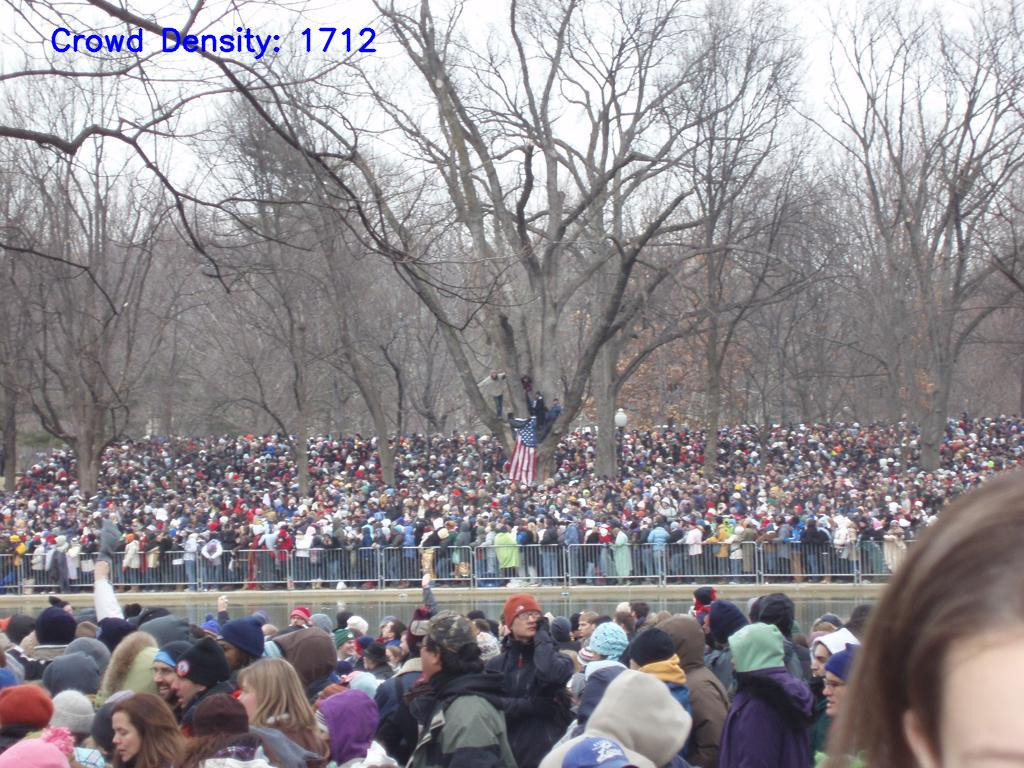
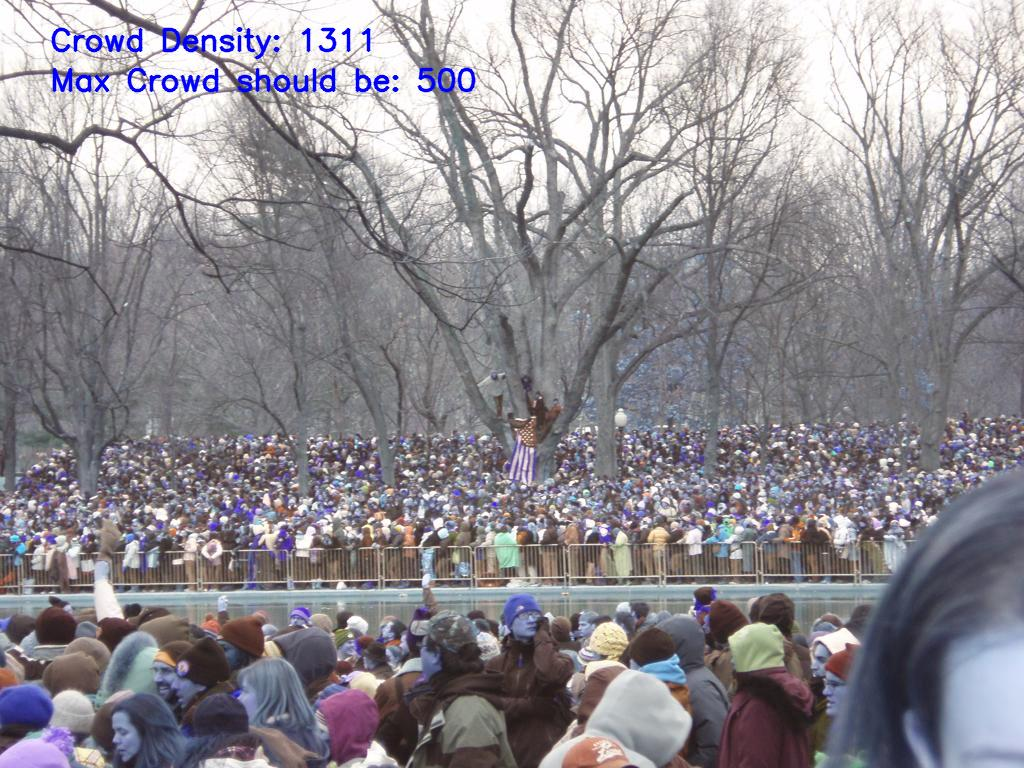
additional functionality added

diff --git a/src/app.py b/src/app.py
@@ -5,6 +5,7 @@ import argparse
 import tkinter.font as font
 import os
 import matplotlib.pyplot as plt
+import cv2
 
 from src.utils.all_utils import read_yaml, log
 from src.prediction import prediction
@@ -36,12 +37,12 @@ class module:
         uploadImg = tk.Button(self.window, text='upload image', command=self.collectImage, fg="white", bg="#363e75", width=15,
                             height=2,
                             activebackground="#118ce1", font=('times', 15, ' bold '), cursor='hand2')
-        uploadImg.place(x=80, y=350)
+        uploadImg.place(x=80, y=120)
 
         uploadVideo = tk.Button(self.window, text='upload video', command=self.collectVideo, fg="white", bg="#363e75", width=15,
                             height=2,
                             activebackground="#118ce1", font=('times', 15, ' bold '), cursor='hand2')
-        uploadVideo.place(x=600, y=350)
+        uploadVideo.place(x=600, y=120)
 
         lbl3 = tk.Label(self.window, text="Notification : ", width=15, fg="white", bg="#363e75", height=2,
                         font=('times', 15))
@@ -54,39 +55,72 @@ class module:
                            font=('times', 15))
         self.message.place(x=220, y=260)
 
+        maxCrowd = tk.Label(self.window, text='Max Crowd Threshold', width=20, fg="white", bg="#363e75", height=2, font=('times', 15))
+        maxCrowd.place(x=80, y=350)
+        self.maxCrowd = tk.Entry(self.window, width=20, bg="white", fg="black", font=('times', 15, ' bold '))
+        self.maxCrowd.place(x=325, y=359)
+
+        predictImg = tk.Button(self.window, text="Predict", command=self.makePrediction, fg="white", bg="#363e75",
+                             width=15,
+                             height=2,
+                             activebackground="#118ce1", font=('times', 15, ' bold '), cursor='hand2')
+        predictImg.place(x=600, y=350)
+
+
         quitWindow = tk.Button(self.window, text="Quit", command=self.close_window, fg="white", bg="#363e75", width=10, height=2,
                                activebackground="#118ce1", font=('times', 15, 'bold'), cursor='hand2')
         quitWindow.place(x=650, y=510)
+
+        self.image_path = None
+        self.video_path = None
 
         self.window.mainloop()
 
     def collectImage(self):
         config_path = os.path.join('src','config','config.yaml')
         content = read_yaml(config_path)
-
-        data_path = content['base']['input_data_path']
         log_dir = content['base']['log_dir']
         log_filename = content['base']['log_file']
         logfile = os.path.join('src', log_dir, log_filename)
-        downsample = content['base']['down_sample']
-
 
         file_types = (('jpg files', '*.jpg'), ('jpeg files', '*.jpeg'), ('png files', '*.png'))
         file_open = filedialog.askopenfilename(initialdir='/', title='Select an image file', 
                                                 filetypes=file_types)
-        notification = "Processing....."
-        self.message.configure(text=notification)
-
-        image = plt.imread(file_open)
-        plt.imsave(os.path.join(data_path, 'input.jpg'), image)
-        app = prediction(config_path, downsample)
-        img, s = app.predict_image(image)
-        plt.imsave(os.path.join(data_path, 'output.jpg'), img)
+        self.image_path = file_open
+        if self.image_path:
+            notification = "Image uploaded"
+            self.message.configure(text=notification)
+            log('input image uploaded', logfile)
+        else:
+            notification = "upload an image."
+            self.message.configure(text=notification)
         
-        notification = "Estimated Crowd Density: {}".format(s)
-        self.message.configure(text=notification)
 
+        
     def collectVideo(self):
+        config_path = os.path.join('src','config','config.yaml')
+        content = read_yaml(config_path)
+
+        log_dir = content['base']['log_dir']
+        log_filename = content['base']['log_file']
+        logfile = os.path.join('src', log_dir, log_filename)
+
+        file_types = (('mp4 files', '*.mp4'),)
+        file_open = filedialog.askopenfilename(initialdir='/', title='Select an video file', 
+                                                filetypes=file_types)
+        self.video_path = file_open
+        if self.video_path:
+            self.message.configure(text="Video uploaded")
+            log('Video uploaded', logfile)
+        else:
+            self.message.configure(text="upload a video.")
+        
+
+    
+    def makePrediction(self):
+        self.message.configure(text='processing...')
+        maxCrowdVal = self.maxCrowd.get()
+        
         config_path = os.path.join('src','config','config.yaml')
         content = read_yaml(config_path)
 
@@ -96,17 +130,39 @@ class module:
         logfile = os.path.join('src', log_dir, log_filename)
         downsample = content['base']['down_sample']
 
-        file_types = (('mp4 files', '*.mp4'),)
-        file_open = filedialog.askopenfilename(initialdir='/', title='Select an video file', 
-                                                filetypes=file_types)
-        self.message.configure(text="Processing....")
-        
-        video_path = file_open
-        app = prediction(config_path, downsample)
-        s = app.predict_video(video_path)
-        
-        notification = "Estimated Crowd Density: {}".format(s)
-        self.message.configure(text=notification)
+        if (not self.image_path) and (not self.video_path):
+            self.message.configure(text= 'Please upload an image or video')
+
+        elif self.image_path:
+            image = plt.imread(self.image_path)
+            image = cv2.cvtColor(image, cv2.COLOR_RGB2BGR)
+            plt.imsave(os.path.join(data_path, 'input.jpg'), image)
+            app = prediction(config_path, downsample)
+            try:
+                maxCrowdVal = int(maxCrowdVal)
+                img, s = app.predict_image(image, max_crowd=maxCrowdVal)
+                plt.imsave(os.path.join(data_path, 'output.jpg'), img)
+                notification = "Estimated Crowd Density: {}".format(s)
+                self.message.configure(text=notification)
+                self.image_path = None
+            except Exception as e:
+                print(e)
+                self.message.configure(text='Please enter a valid integer value..')
+
+        elif self.video_path:
+            app = prediction(config_path, downsample)
+            try:
+                maxCrowdVal = int(maxCrowdVal)
+                s = app.predict_video(self.video_path, max_crowd=maxCrowdVal)
+                notification = "Estimated Crowd Density: {}".format(s)
+                self.message.configure(text=notification)
+                self.video_path = None
+            except Exception as e:
+                print(e)
+                self.message.configure(text='Please enter a valid integer value..')
+            
+
+
 
  
     def close_window(self):

diff --git a/src/prediction.py b/src/prediction.py
@@ -12,6 +12,7 @@ from tqdm import tqdm
 from matplotlib import cm as CM
 from src.utils.all_utils import read_yaml, log
 from src.model import MCNN
+import pyttsx3 as p
 
 class prediction:
     def __init__(self, config_path, downsample):
@@ -38,8 +39,15 @@ class prediction:
             checkpoint = torch.load(checkpoint_path, map_location=torch.device('cpu'))
         self.model.load_state_dict(checkpoint['model_state_dict'])
 
-        
-        
+        self.engine = p.init()
+        rate = self.engine.getProperty('rate')
+        self.engine.setProperty('rate',180)
+        voices = self.engine.getProperty('voices')
+        self.engine.setProperty('voice',voices[1].id)
+
+        self.count = 0
+        self.frame_check = 2
+            
     def get_custom_photo(self, image):
         if len(image.shape)==2: # expand grayscale image to three channel.
             image=image[:,:,np.newaxis]
@@ -56,7 +64,7 @@ class prediction:
         plt.imsave(path, output)
         log('Density map of your input has been saved in {}'.format(path), self.logfile)
 
-    def predict_image(self, img, from_video=False):
+    def predict_image(self, img, max_crowd=None, from_video=False):
         img_tensor = self.get_custom_photo(img)
         img_tensor = img_tensor.expand(1, img_tensor.shape[0],img_tensor.shape[1],img_tensor.shape[2])
         if self.cuda:
@@ -70,23 +78,34 @@ class prediction:
         print(s)
         text = "Crowd Density: {}".format(s)
         cv2.putText(img, text, (50,50), cv2.FONT_HERSHEY_SIMPLEX, 1, (0,0,255), 2, cv2.LINE_AA)
+        if max_crowd:
+            text = "Max Crowd should be: {}".format(max_crowd)
+            cv2.putText(img, text, (50,90), cv2.FONT_HERSHEY_SIMPLEX, 1, (0,0,255), 2, cv2.LINE_AA)
         if not from_video:
             cv2.imshow('feed', img)
             cv2.waitKey(0)
         return img, s 
 
-    def predict_video(self, video_path):
+    def predict_video(self, video_path, max_crowd=None):
         cap = cv2.VideoCapture(video_path)
         while cap.isOpened():
             ret, frame = cap.read()
             
             if ret == True:
                 if frame.shape[0] >= 1024:
-                    frame = cv2.resize(frame,(1024,1024))
-                image, s = self.predict_image(frame, from_video=True)
+                    frame = cv2.resize(frame, (1024,1024))
+                #frame = cv2.resize(frame, (700,700))
+                image, s = self.predict_image(frame, max_crowd=max_crowd, from_video=True)
                 
                 cv2.imshow('feed', image)
-                if cv2.waitKey(25) & 0xFF==ord('q'):
+                if s > int(max_crowd):
+                    self.count += 1
+                    if self.count > self.frame_check:
+                        self.engine.say("Crowd density is very high! Please clear the crowd.")
+                        self.engine.runAndWait()
+                else:
+                    self.count = 0
+                if cv2.waitKey(1) & 0xFF==ord('q'):
                     break
             else:
                 break

diff --git a/src/density_map.py b/src/density_map.py
@@ -8,7 +8,7 @@ class density:
     def __init__(self, config_path):
         content = read_yaml(config_path)
         self.leafsize = content['base']['kdtree_leafsize']
-        self.nearest_points = content['base']['number_of_nearset_points']
+        self.nearest_points = content['base']['number_of_nearset_points']  # 4
         log_dir = content['base']['log_dir']
         log_filename = content['base']['log_file']
         self.logfile = os.path.join('src', log_dir, log_filename)

diff --git a/setup.py b/setup.py
@@ -6,5 +6,6 @@ setup(
     author='Arnab Mitra',
     description='Face Monitering System',
     packages=['src'],
-    install_requires=['torch','torchvision','torchaudio','opencv-python','matplotlib','PyYAML','numpy','scipy']
+    install_requires=['torch','torchvision','torchaudio','opencv-python','matplotlib','PyYAML','numpy','scipy','pyttsx3']
+    
 )

diff --git a/Readme.md b/Readme.md
@@ -1,0 +1,39 @@
+# Crowd-Density-Estimation
+
+A desktop based application which can detect density of crowd in any public place. 
+## Algorithm used
+
+A Multicolumn Convolutional Neural Network (MCNN) is used for this application. It has three different columns, each of them has different sizes of kernel. It helps model to detect 
+different sizes of head in crowd. 
+
+## Framework
+
+PyTorch
+## Installation
+
+* conda create --prefix ./env python==3.8 -y
+* conda activate <<path_to_env_directory>>/env
+* pip install -r requirements.txt
+
+## Project Demo
+
+### View my project
+
+[Demo](https://www.linkedin.com/posts/arnab-mitra-882756227_connections-computervision-datascience-activity-6959506473651490816-w4cI?utm_source=linkedin_share&utm_medium=member_desktop_web)
+## Steps
+
+### First go to the project directory and run 'python src/app.py' in command line.
+
+#### Upload any image or video
+![Take image](home_page.png)
+
+#### Prediction
+![Prediction](prediction.png)
+
+## Dataset 
+
+[SanghaiTech Dataset](https://www.kaggle.com/datasets/tthien/shanghaitech)
+
+## Paper link
+[MCNN PAPER](https://people.eecs.berkeley.edu/~yima/psfile/Single-Image-Crowd-Counting.pdf)
+
